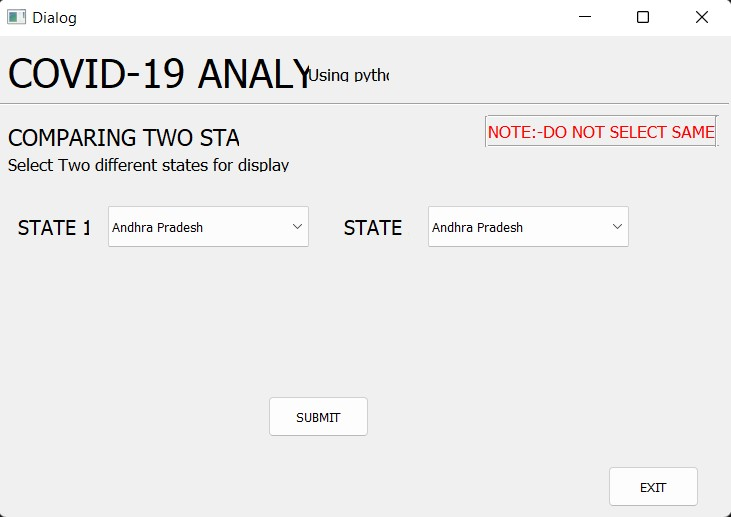
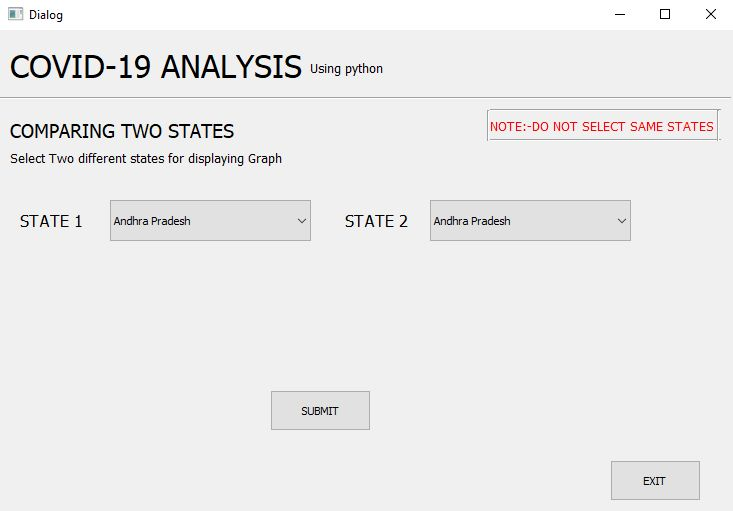
vigneshwaran Readme and screenshot changes

diff --git a/ProgramFiles/Gui.py b/ProgramFiles/Gui.py
@@ -1,9 +1,8 @@
 #MAIN GUI
 
 import sys
-# sys.path.append('C:/Users/Rohith S/Desktop/PBL Files/PBL Files')
-# sys.path.append('C:/Users/guruj/Desktop/Covid_Data_Analysis')
-sys.path.append('C:/Users/Admin/Desktop/Covid-Data-Analysis')
+import os
+sys.path.append(os.path.dirname(os.path.dirname(os.path.abspath(__file__))))
 from ProgramFiles.Guru import * 
 from ProgramFiles.Samrudh import * 
 from ProgramFiles.VigneshWaran import *

diff --git a/ProgramFiles/Gui2.py b/ProgramFiles/Gui2.py
@@ -2,7 +2,8 @@
 #AGE WISE
 
 import sys
-sys.path.append('C:/Users/guruj/Desktop/Covid_Data_Analysis')
+import os
+sys.path.append(os.path.dirname(os.path.dirname(os.path.abspath(__file__))))
 from ProgramFiles.Guru import * 
 from ProgramFiles.Samrudh import * 
 from ProgramFiles.VigneshWaran import *

diff --git a/ProgramFiles/Gender.py b/ProgramFiles/Gender.py
@@ -2,7 +2,8 @@
 
 from PyQt5 import QtCore, QtGui, QtWidgets
 import sys
-sys.path.append('C:/Users/guruj/Desktop/Covid_Data_Analysis')
+import os
+sys.path.append(os.path.dirname(os.path.dirname(os.path.abspath(__file__))))
 from ProgramFiles.Guru import *
 
 class Ui_Dialog5(object):

diff --git a/ProgramFiles/india.py b/ProgramFiles/india.py
@@ -1,7 +1,8 @@
 #GUI
 
 import sys
-sys.path.append('C:/Users/guruj/Desktop/Covid_Data_Analysis')
+import os
+sys.path.append(os.path.dirname(os.path.dirname(os.path.abspath(__file__))))
 
 from PyQt5 import QtCore, QtGui, QtWidgets
 from ProgramFiles.region_wise import *

diff --git a/ProgramFiles/indiaselect.py b/ProgramFiles/indiaselect.py
@@ -2,7 +2,8 @@
 
 import config
 import sys
-sys.path.append('C:/Users/Rohith S/Desktop/PBL Files/PBL Files')
+import os
+sys.path.append('C:/Users/guruj/Desktop/Covid_Data_Analysis')
 from ProgramFiles.Guru import *
 from PyQt5 import QtCore, QtGui, QtWidgets
 

diff --git a/ProgramFiles/Gui3.py b/ProgramFiles/Gui3.py
@@ -2,6 +2,7 @@
 #STATE
 
 import sys
+import os
 sys.path.append('C:/Users/guruj/Desktop/Covid_Data_Analysis')
 from ProgramFiles.VigneshWaran import *
 from ProgramFiles.Gender import*

diff --git a/README.md b/README.md
@@ -107,14 +107,14 @@ The project provides meaningful insights into the Covid-19 situation in India an
 
 <!-- <h3 align="center">Main UI</h3> -->
 <p align="center">
-  <img src="ScreenShots/Main_Page.JPG" alt="Description of Image">
+  <img src="ScreenShots/Main_Page.jpg" alt="Description of Image">
   <br>
   <strong>Main UI</strong>
 </p>
 
 
 <p align="center">
-  <img src="ScreenShots/India_Zones.jpg" alt="Description of Image">
+  <img src="ScreenShots/Indian_Zones.jpg" alt="Description of Image">
   <br>
   <strong>India Zones</strong>
 </p>
@@ -162,7 +162,7 @@ The project provides meaningful insights into the Covid-19 situation in India an
 </p>
 
 <p align="center">
-  <img src="ScreenShots\Compare_two_States_OP.png" alt="Description of Image">
+  <img src="ScreenShots\Compare_States.jpg" alt="Description of Image">
   <br>
   <strong>Compare States OP</strong>
 </p>
